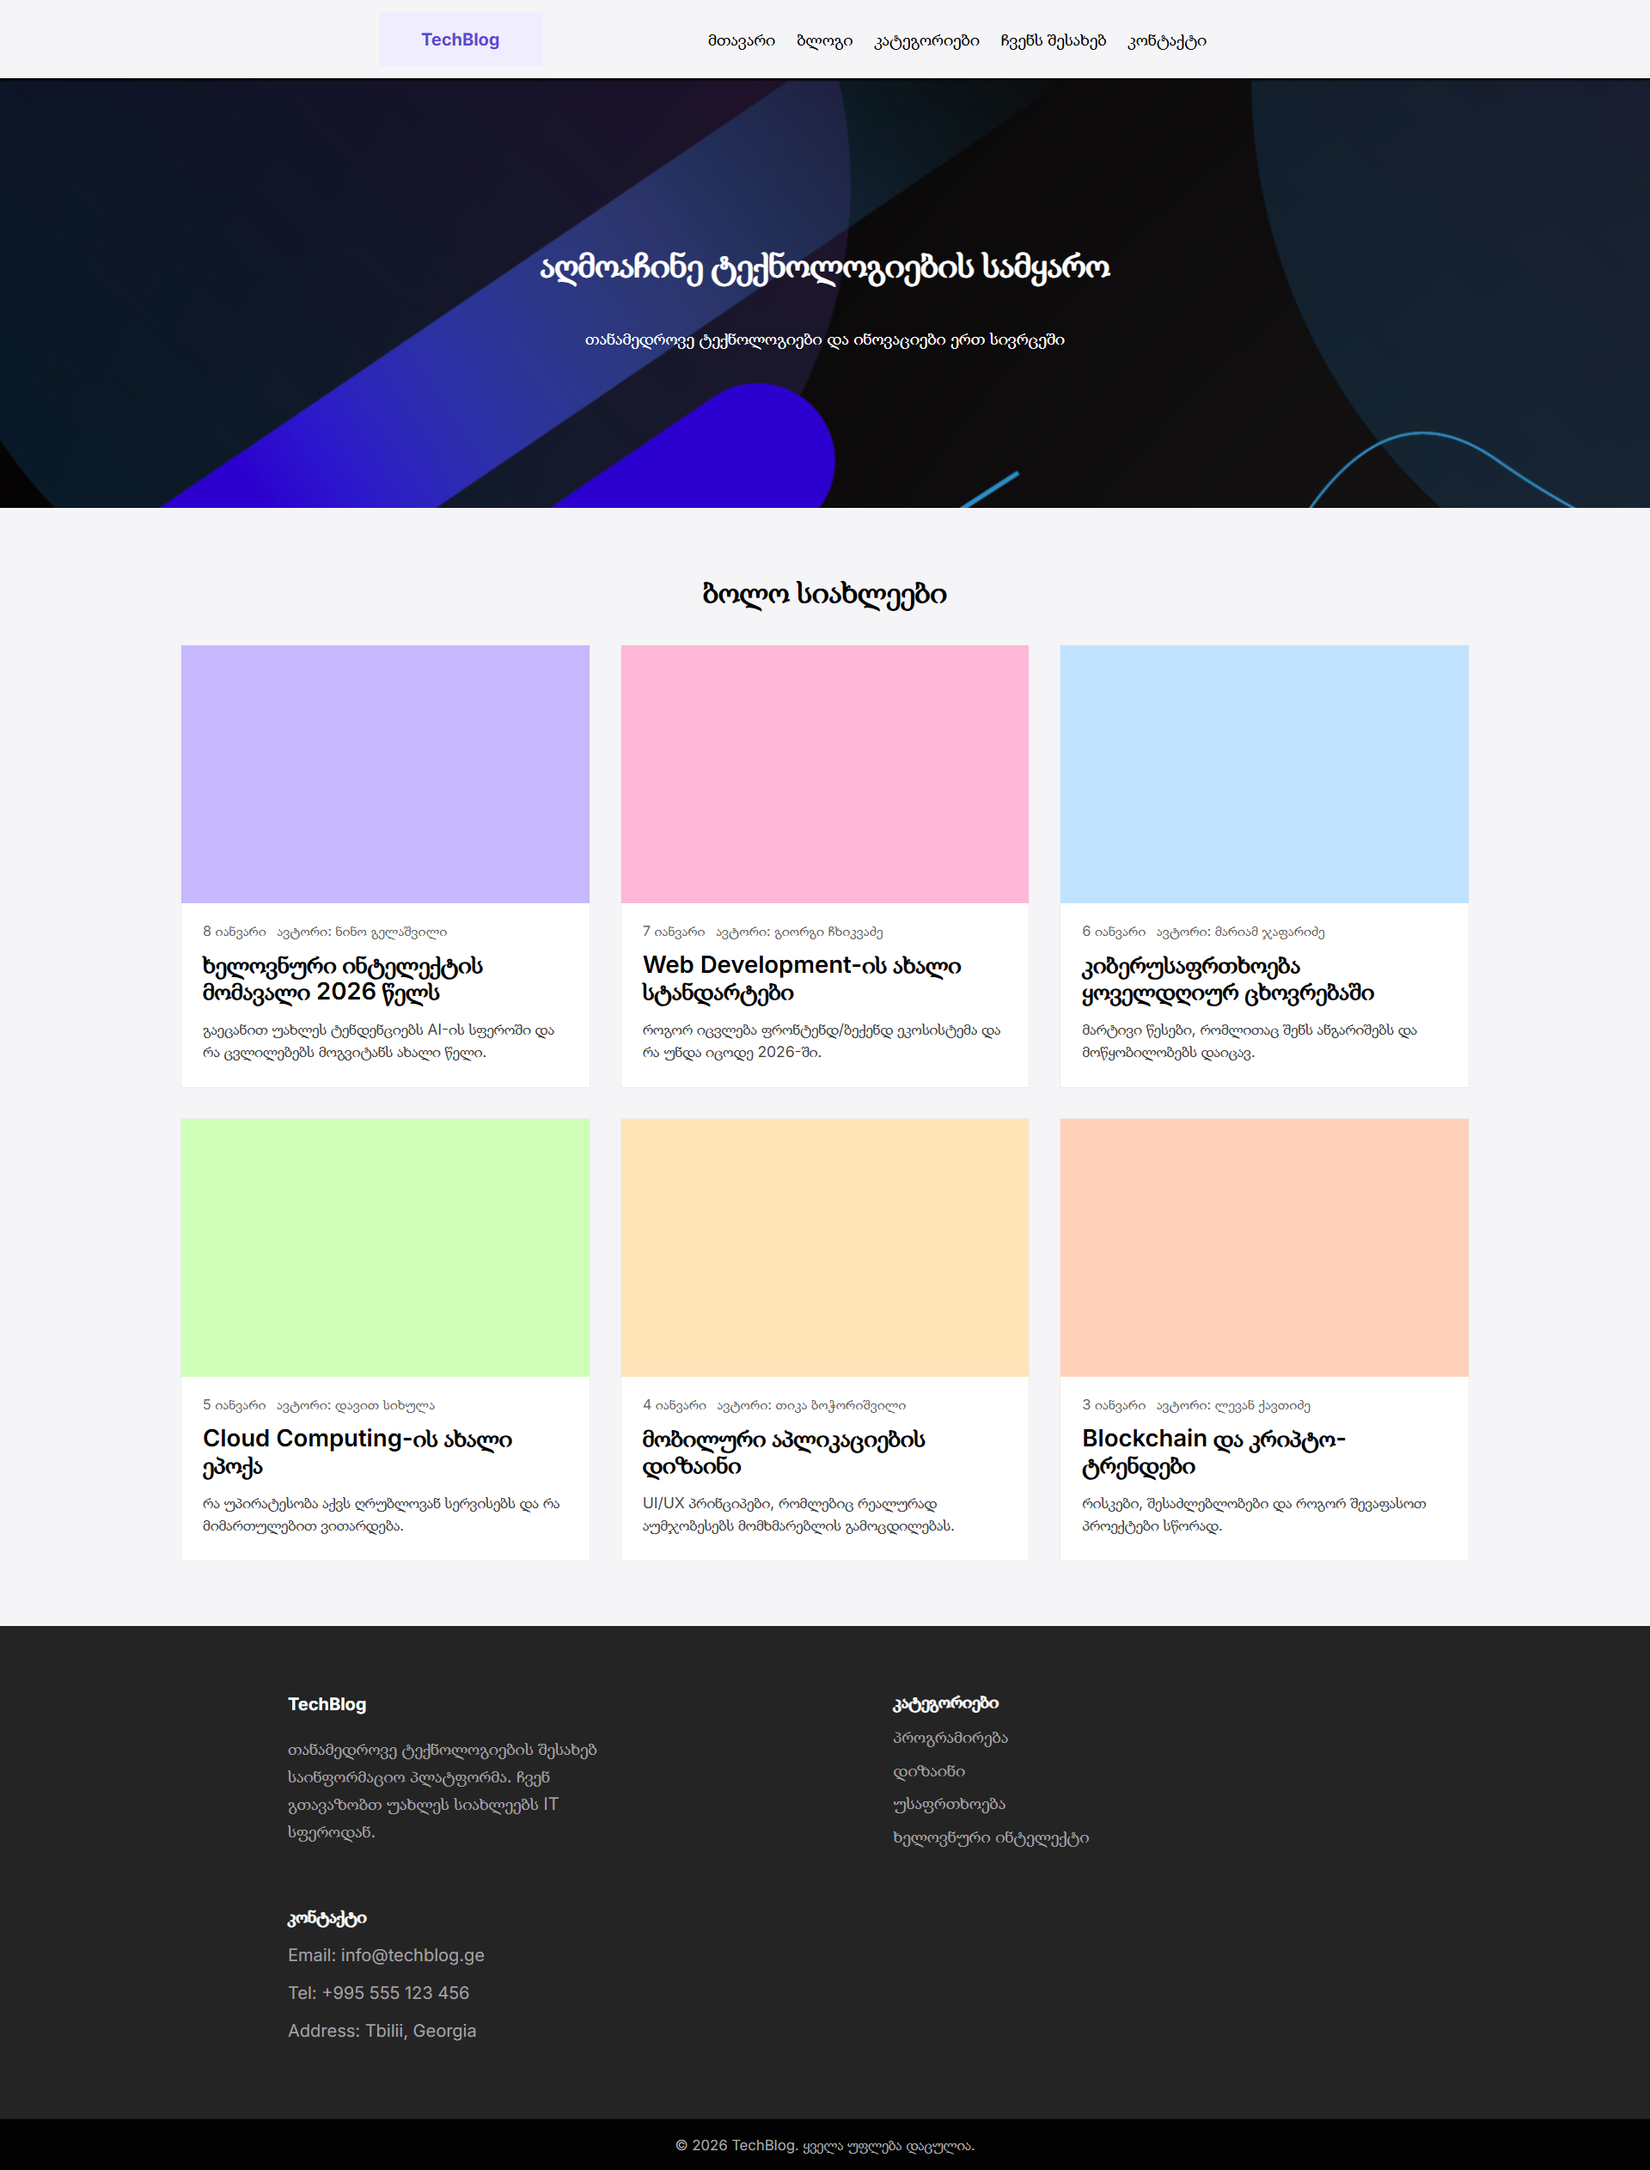
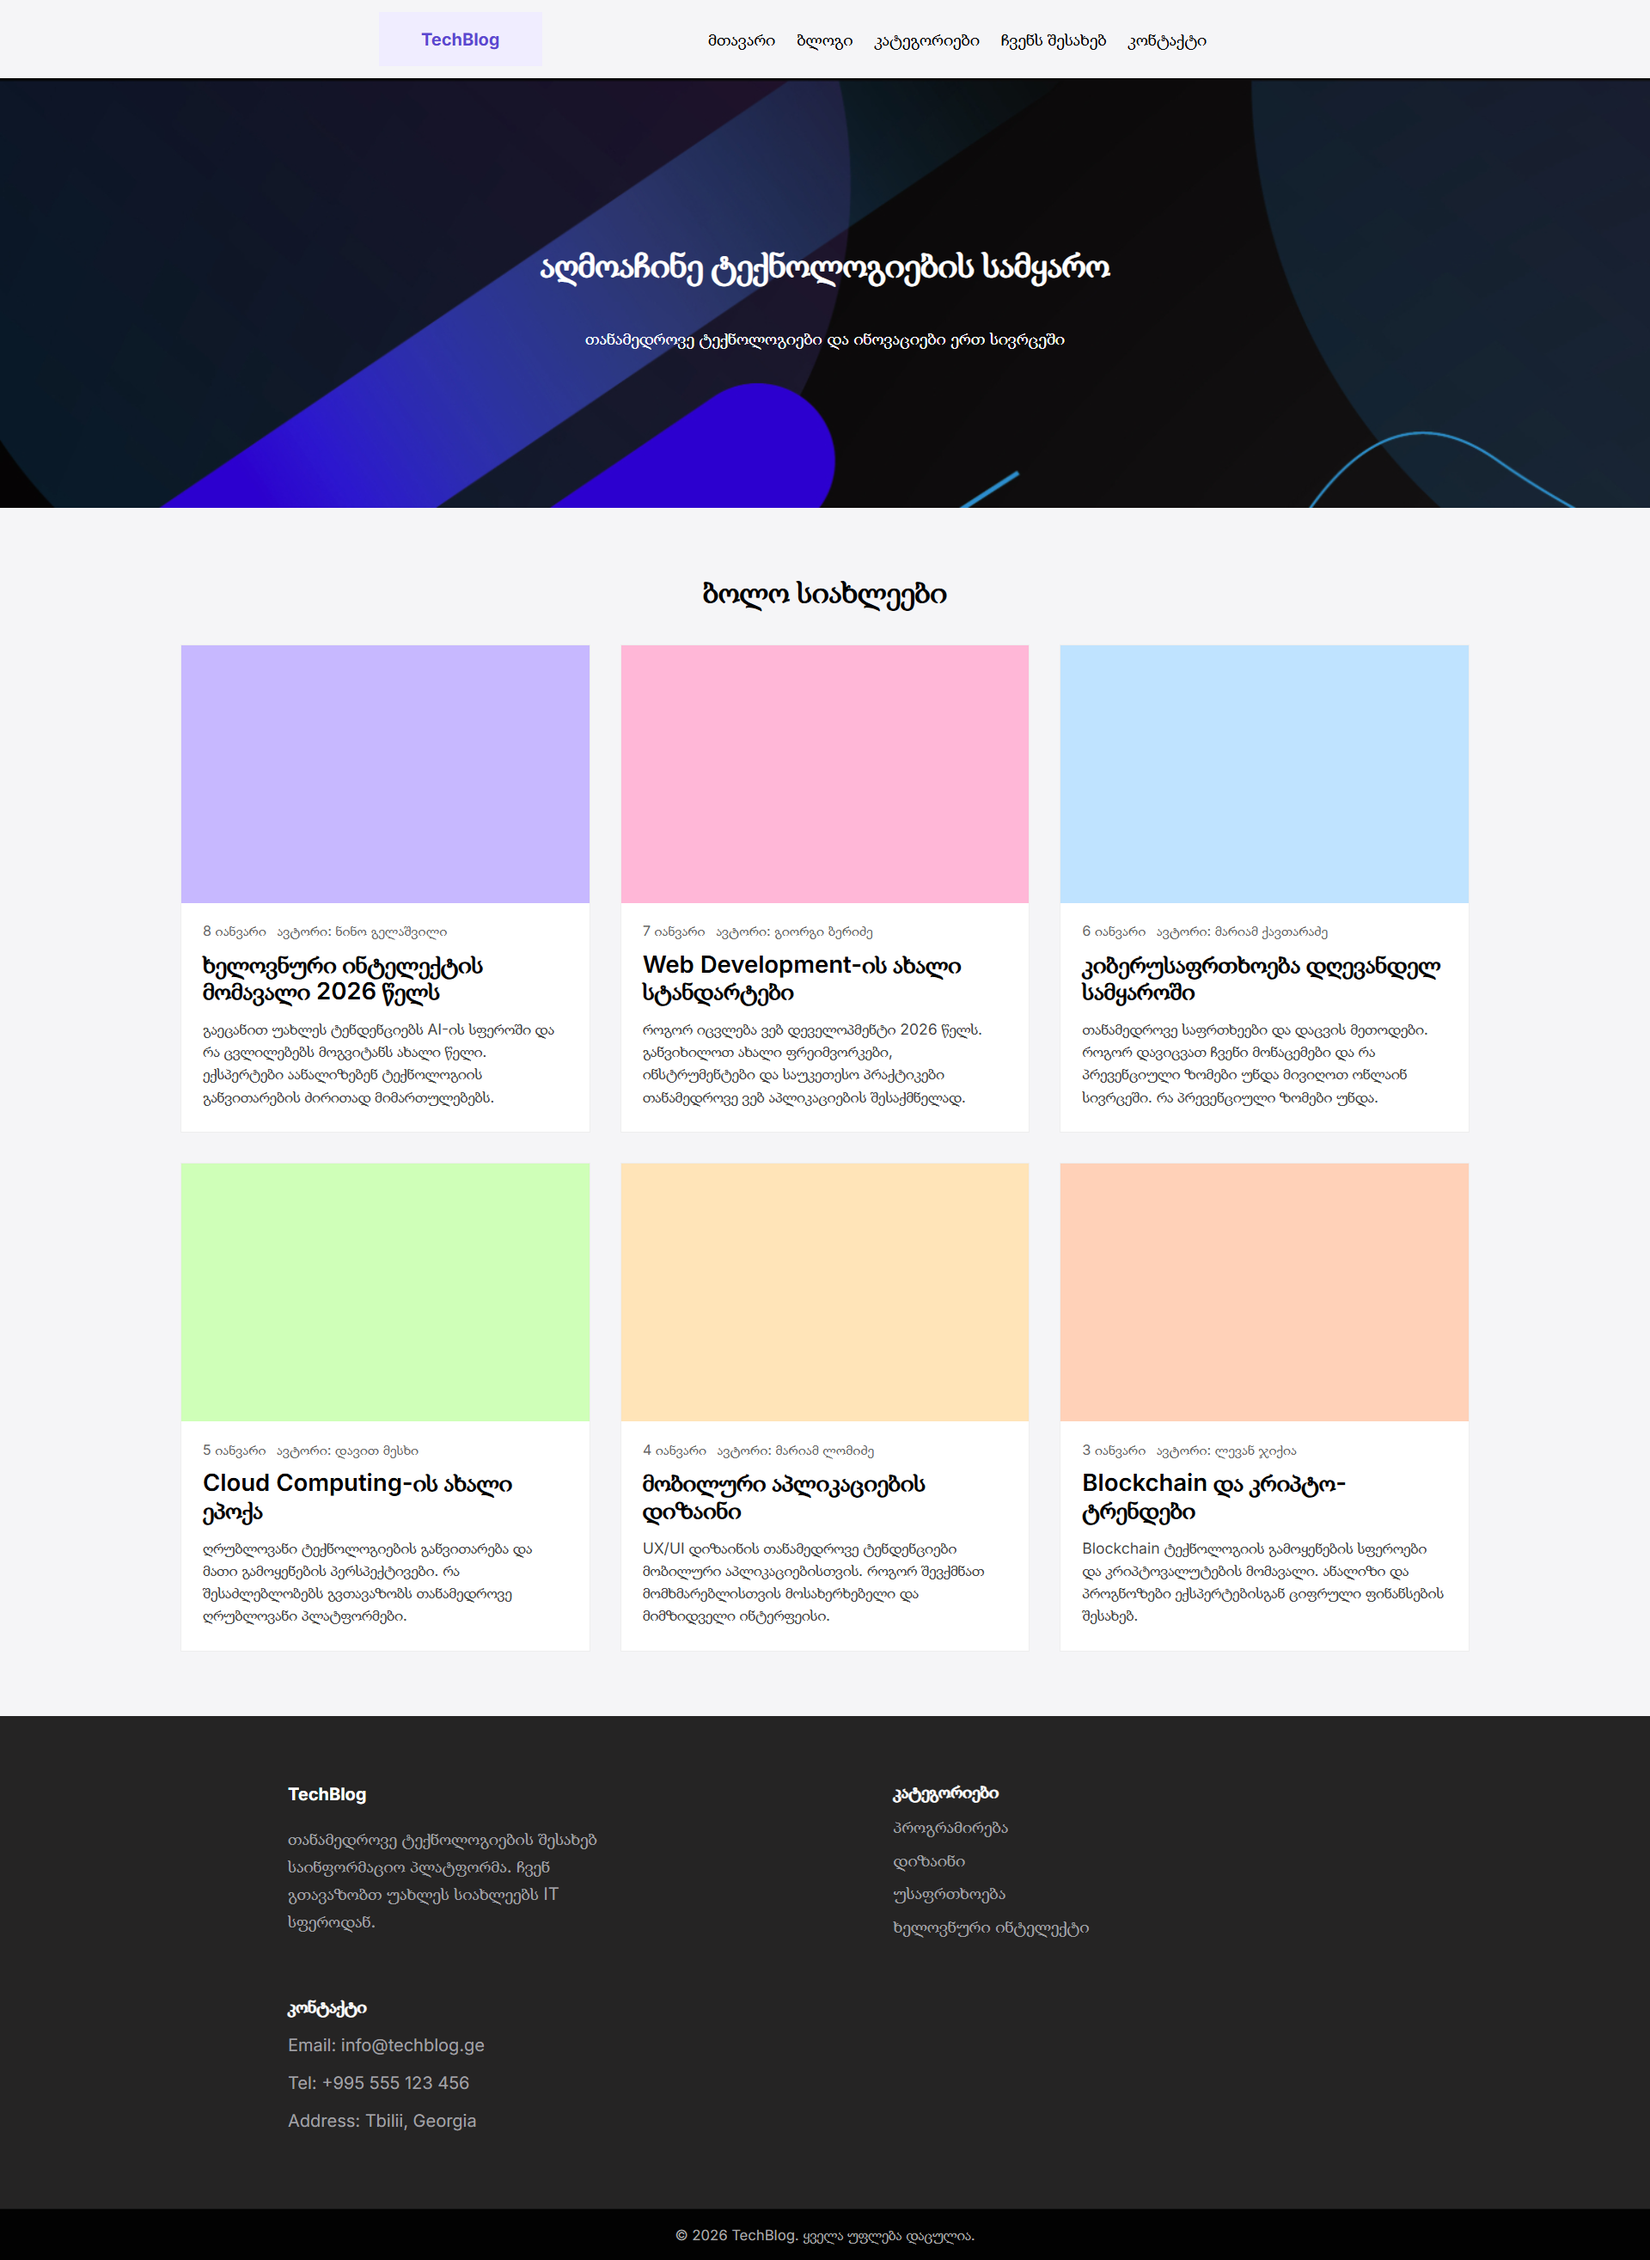
fixed texts

diff --git a/index.html b/index.html
@@ -46,7 +46,7 @@
                     </div>
 
                     <h3 class="card-title">ხელოვნური ინტელექტის მომავალი 2026 წელს</h3>
-                    <p class="card-text">გაეცანით უახლეს ტენდენციებს AI-ის სფეროში და რა ცვლილებებს მოგვიტანს ახალი წელი.</p>
+                    <p class="card-text">გაეცანით უახლეს ტენდენციებს AI-ის სფეროში და რა ცვლილებებს მოგვიტანს ახალი წელი. ექსპერტები აანალიზებენ ტექნოლოგიის განვითარების ძირითად მიმართულებებს.</p>
                 </div>
             </article>
 
@@ -56,11 +56,11 @@
                 <div class="card-body">
                     <div class="card-info">
                         <span>7 იანვარი</span>
-                        <span>ავტორი: გიორგი ჩხიკვაძე</span>
+                        <span>ავტორი: გიორგი ბერიძე</span>
                     </div>
 
                     <h3 class="card-title">Web Development-ის ახალი სტანდარტები</h3>
-                    <p class="card-text">როგორ იცვლება ფრონტენდ/ბექენდ ეკოსისტემა და რა უნდა იცოდე 2026-ში.</p>
+                    <p class="card-text">როგორ იცვლება ვებ დეველოპმენტი 2026 წელს. განვიხილოთ ახალი ფრეიმვორკები, ინსტრუმენტები და საუკეთესო პრაქტიკები თანამედროვე ვებ აპლიკაციების შესაქმნელად.</p>
                 </div>
             </article>
 
@@ -70,11 +70,11 @@
                 <div class="card-body">
                     <div class="card-info">
                         <span>6 იანვარი</span>
-                        <span>ავტორი: მარიამ ჯაფარიძე</span>
+                        <span>ავტორი: მარიამ ქავთარაძე</span>
                     </div>
 
-                    <h3 class="card-title">კიბერუსაფრთხოება ყოველდღიურ ცხოვრებაში</h3>
-                    <p class="card-text">მარტივი წესები, რომლითაც შენს ანგარიშებს და მოწყობილობებს დაიცავ.</p>
+                    <h3 class="card-title">კიბერუსაფრთხოება დღევანდელ სამყაროში</h3>
+                    <p class="card-text">თანამედროვე საფრთხეები და დაცვის მეთოდები. როგორ დავიცვათ ჩვენი მონაცემები და რა პრევენციული ზომები უნდა მივიღოთ ონლაინ სივრცეში. რა პრევენციული ზომები უნდა.</p>
                 </div>
             </article>
 
@@ -84,11 +84,11 @@
                 <div class="card-body">
                     <div class="card-info">
                         <span>5 იანვარი</span>
-                        <span>ავტორი: დავით სიხულა</span>
+                        <span>ავტორი: დავით მესხი</span>
                     </div>
 
                     <h3 class="card-title">Cloud Computing-ის ახალი ეპოქა</h3>
-                    <p class="card-text">რა უპირატესობა აქვს ღრუბლოვან სერვისებს და რა მიმართულებით ვითარდება.</p>
+                    <p class="card-text">ღრუბლოვანი ტექნოლოგიების განვითარება და მათი გამოყენების პერსპექტივები. რა შესაძლებლობებს გვთავაზობს თანამედროვე ღრუბლოვანი პლატფორმები.</p>
                 </div>
             </article>
 
@@ -98,11 +98,11 @@
                 <div class="card-body">
                     <div class="card-info">
                         <span>4 იანვარი</span>
-                        <span>ავტორი: თიკა ბოჭორიშვილი</span>
+                        <span>ავტორი: მარიამ ლომიძე</span>
                     </div>
 
                     <h3 class="card-title">მობილური აპლიკაციების დიზაინი</h3>
-                    <p class="card-text">UI/UX პრინციპები, რომლებიც რეალურად აუმჯობესებს მომხმარებლის გამოცდილებას.</p>
+                    <p class="card-text">UX/UI დიზაინის თანამედროვე ტენდენციები მობილური აპლიკაციებისთვის. როგორ შევქმნათ მომხმარებლისთვის მოსახერხებელი და მიმზიდველი ინტერფეისი.</p>
                 </div>
             </article>
 
@@ -112,11 +112,11 @@
                 <div class="card-body">
                     <div class="card-info">
                         <span>3 იანვარი</span>
-                        <span>ავტორი: ლევან ქავთიძე</span>
+                        <span>ავტორი: ლევან ჯიქია</span>
                     </div>
 
                     <h3 class="card-title">Blockchain და კრიპტო-ტრენდები</h3>
-                    <p class="card-text">რისკები, შესაძლებლობები და როგორ შევაფასოთ პროექტები სწორად.</p>
+                    <p class="card-text">Blockchain ტექნოლოგიის გამოყენების სფეროები და კრიპტოვალუტების მომავალი. ანალიზი და პროგნოზები ექსპერტებისგან ციფრული ფინანსების შესახებ.</p>
                 </div>
             </article>
         </div>
